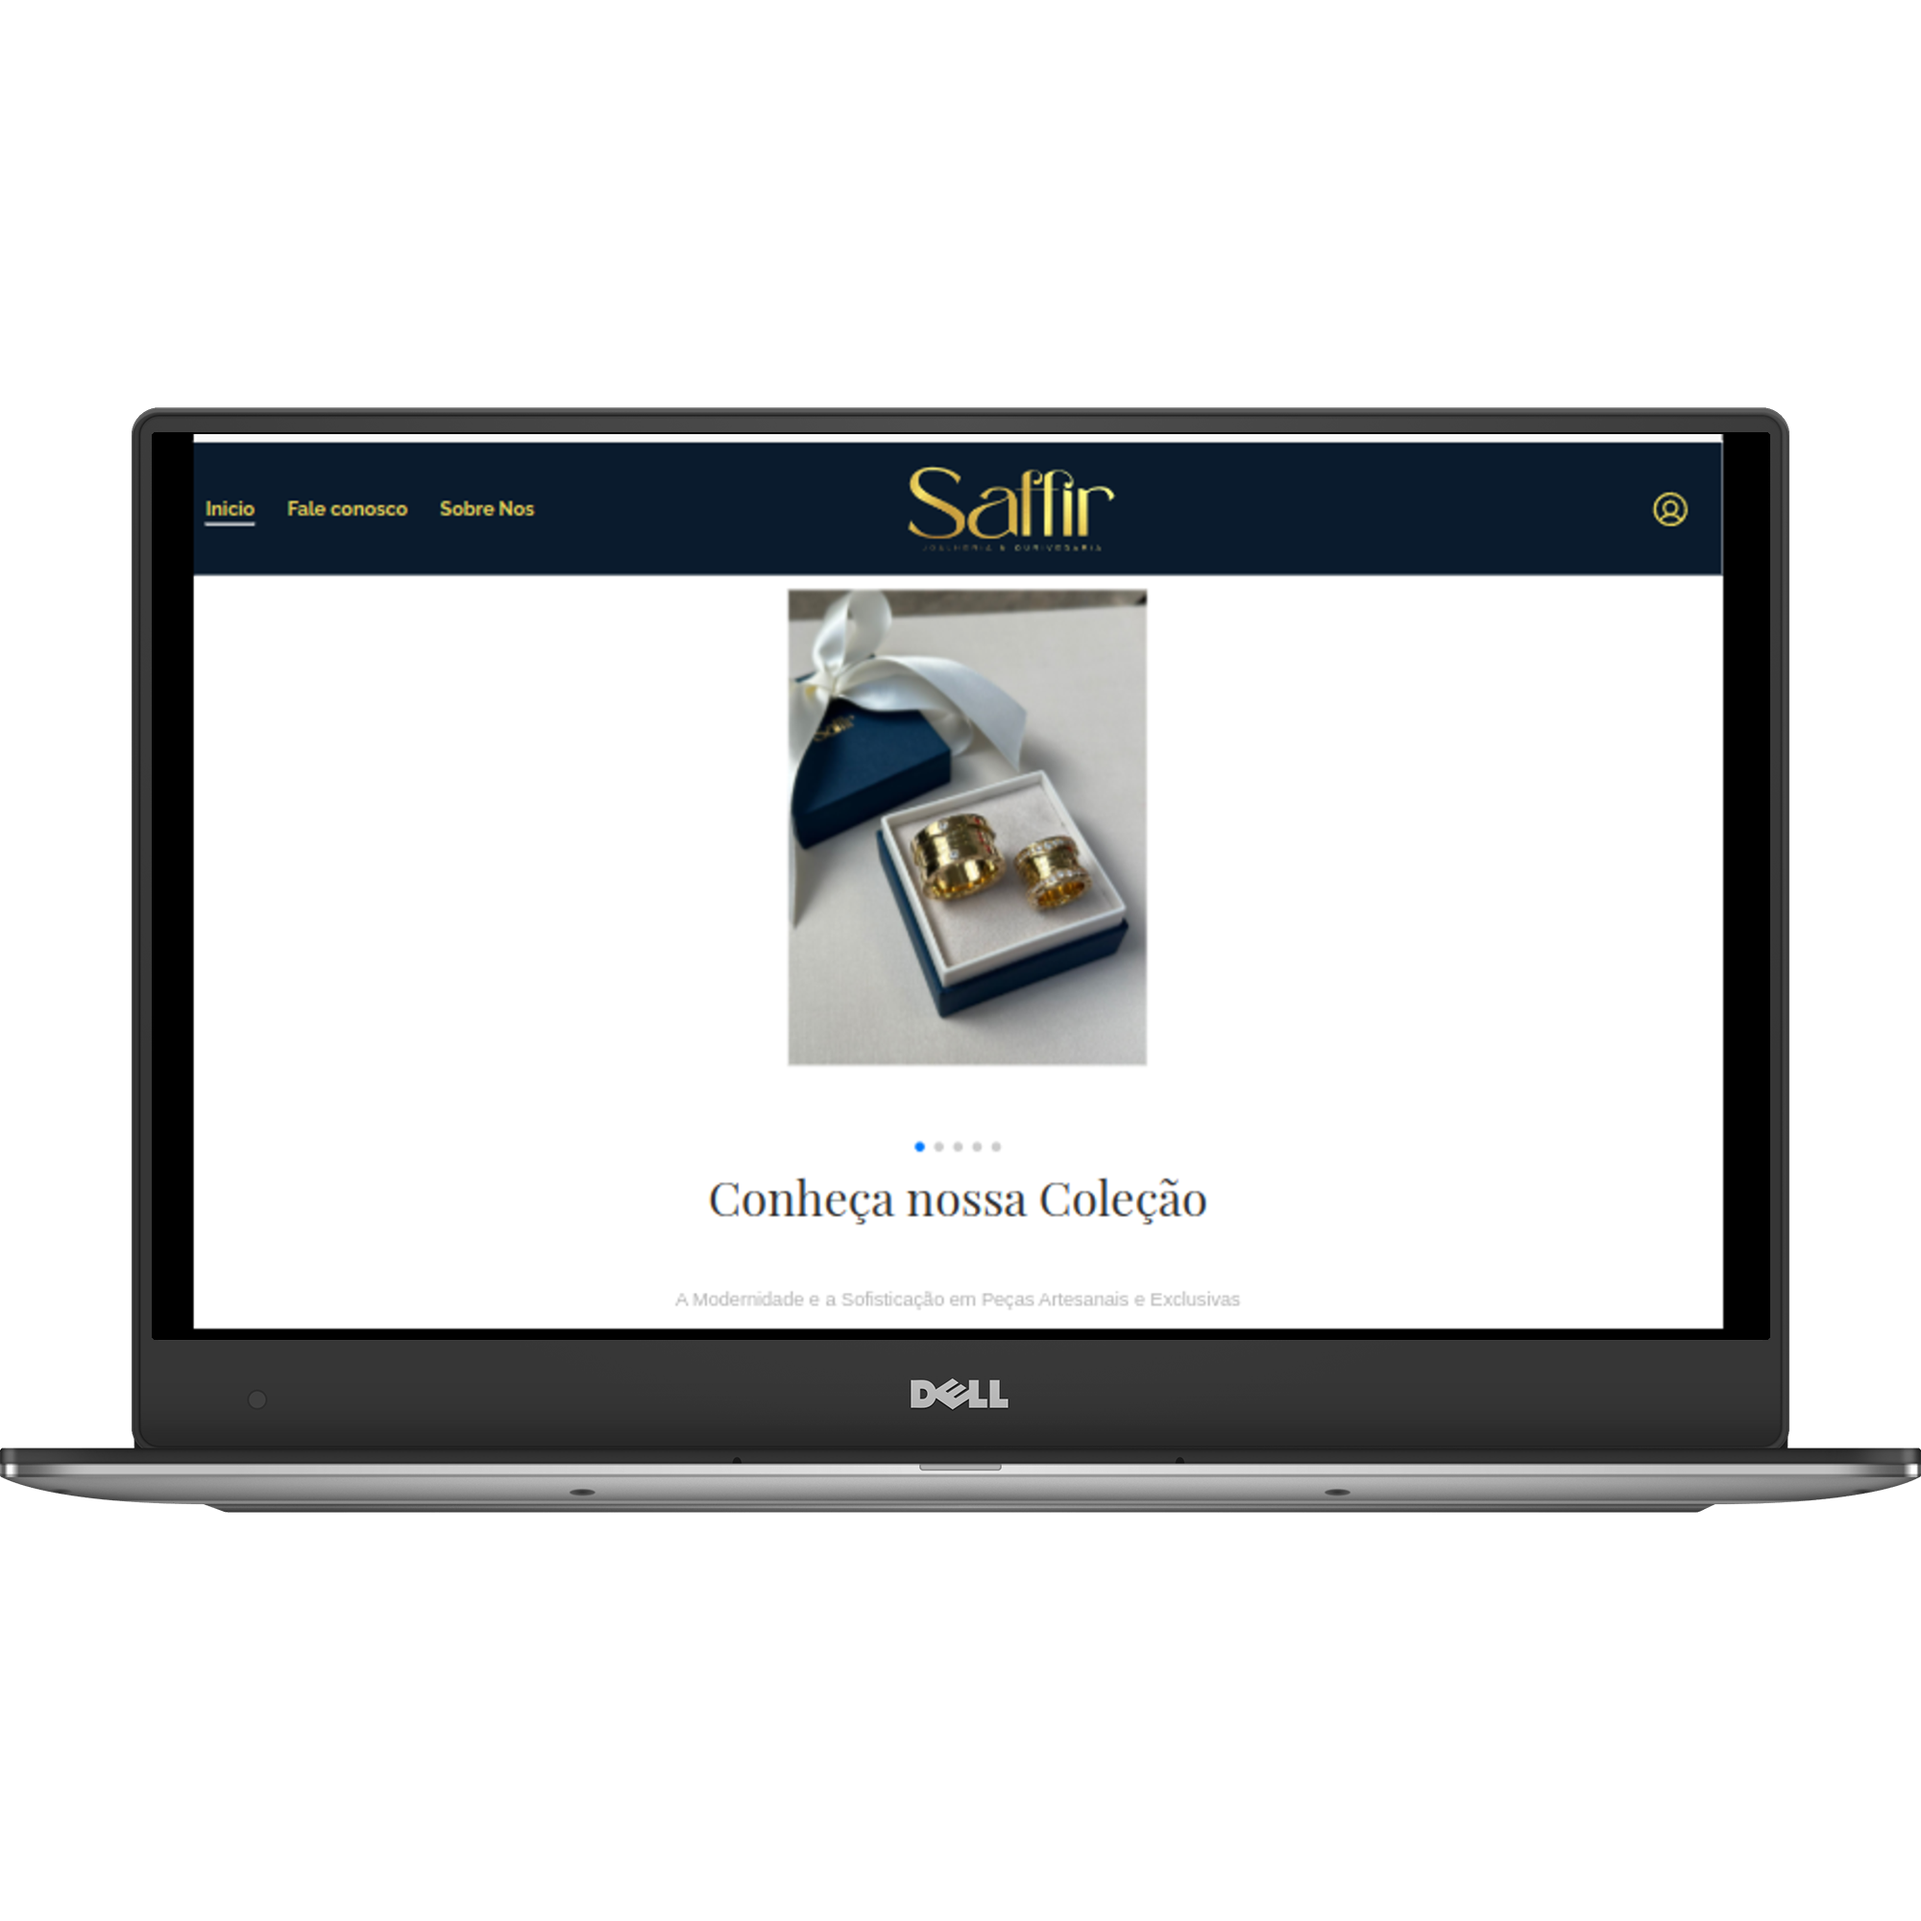
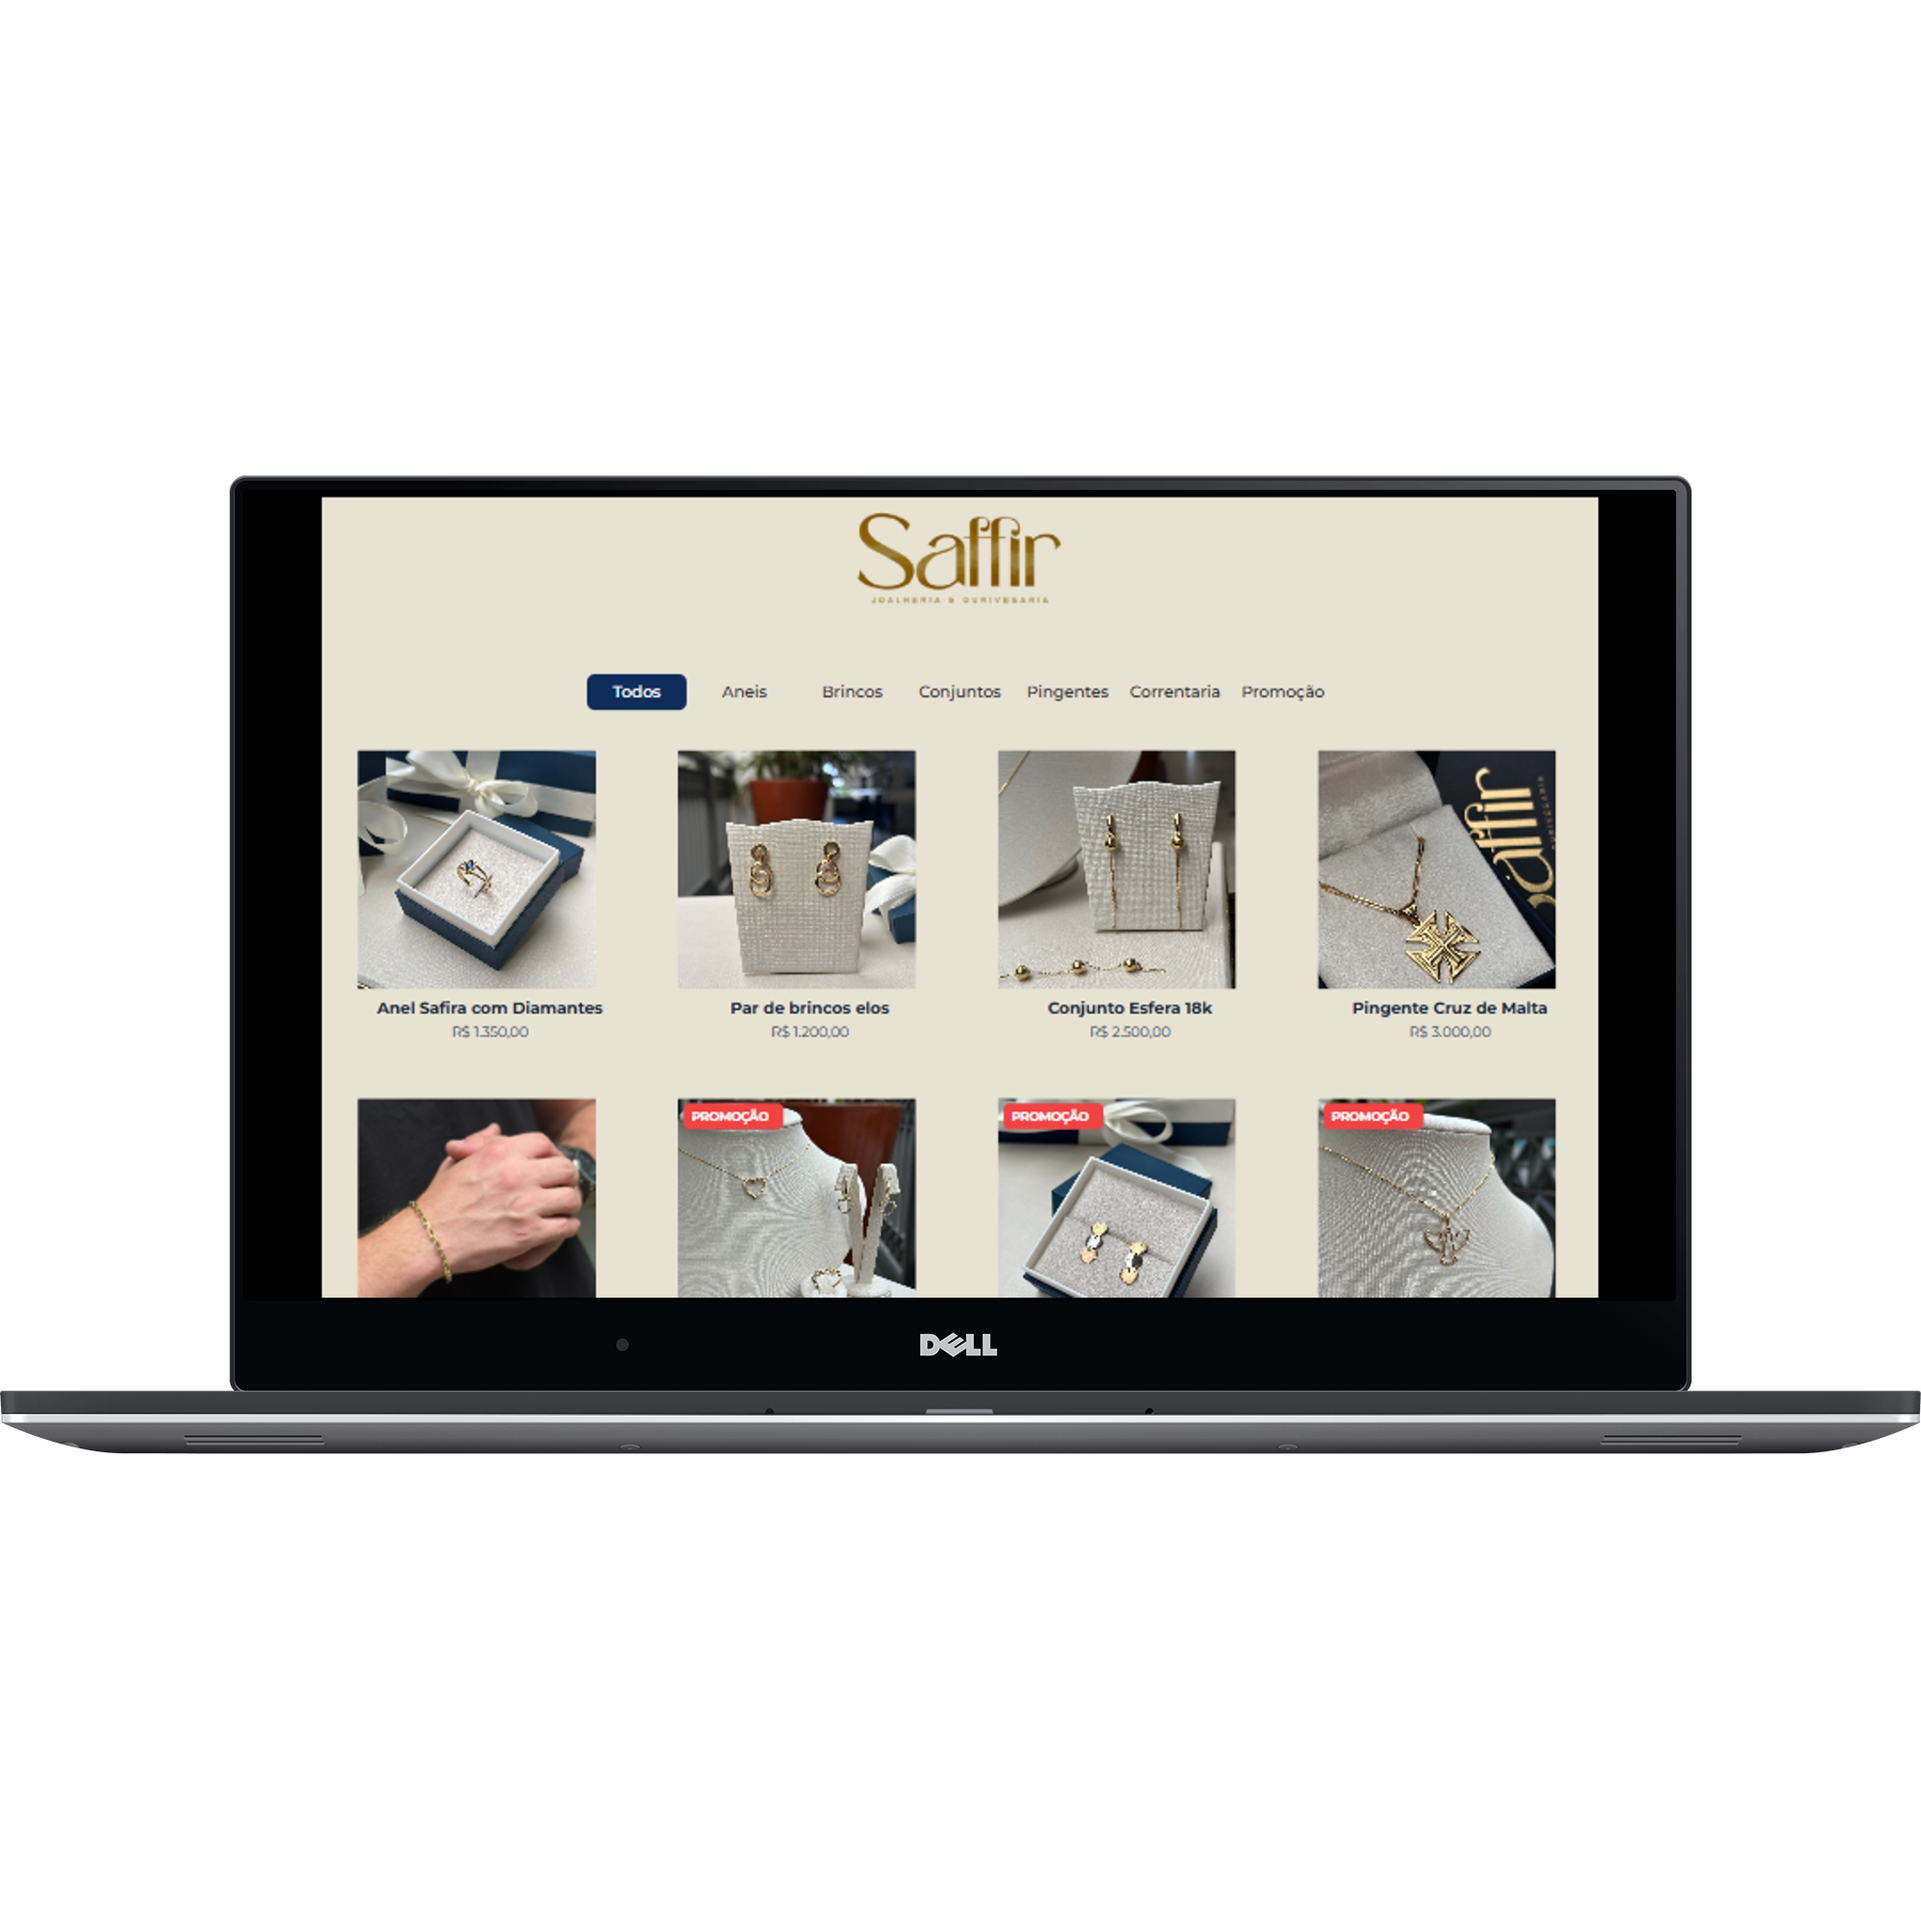
add saffir portfolio

diff --git a/src/assets/projects.ts b/src/assets/projects.ts
@@ -20,6 +20,7 @@ export interface ProjetCardProps {
     image2: string;
     site: string;
     demo: string;
+    platform?:string;
     email: string;
     senha: string;
   }
@@ -56,18 +57,19 @@ export const projects =
             senha: "----",
         },
         {
-            title: "Site Para Mostruário de Joalheria e Ourivesaria",
+            title: "Site Para Portfólio de uma Joalheria",
             description:
-                "Site feito para uma joalheria para fim de mostruário de joias em geral. Feito com React e TypeScript e Firebase para Back-end",
+                "Site feito para uma joalheria para ser um portfólio de joias. Feito com React e TypeScript e Firebase para Back-end",
             year: 2024,
             role: "Desenvolvedor Full-Stack",
             image: saffir,
             image2: saffirMobile,
 
-            site: "saffirjoias",
-            demo: "saffirjoias",
-            email: "saffirjoias@gmail.com",
-            senha: "123456",
+            site: "portfolioSaffir",
+            demo: "portfolio-saffir",
+            platform: "vercel",
+            email: "saffir@joias.com",
+            senha: "190225",
         },
         {
             title: "Site de Entrega de Café: Da Seleção ao Pedido Confirmado",

diff --git a/src/components/main.tsx b/src/components/main.tsx
@@ -53,7 +53,7 @@ export function Main() {
           </Avatar>
         </motion.div>
         <motion.div
-          className="md:mr-[44rem]   "
+          className="flex flex-col items-center w-full mr-[46rem]" //
           initial={{ opacity: 0, scale: 0.5, y: 20 }}
           animate={{ opacity: 1, scale: 1, y: 0 }}
           transition={{ duration: 0.9 }}
@@ -63,7 +63,8 @@ export function Main() {
           </p>
 
           <Carousel
-            className=" w-60 "
+            className="w-60"
+      
             plugins={[
               Autoplay({
                 delay: 2000,
@@ -102,9 +103,9 @@ export function Main() {
           </Carousel>
         </motion.div>
 
-        <div className="w-screen mt-10   flex flex-col justify-center   items-center md:mt-16 md:mr-[44rem]">
-          <div />
-          <div className="border-t-4   min-w-full  lg:min-w-[74rem] md:w-full  border-gray-700 "></div>
+        <div className="w-full  border-t-4 border-gray-700   flex flex-col justify-center   items-center md:mt-16 md:mr-[44rem]">
+    
+        <div className=""></div>
           <motion.div
             initial={{ opacity: 0, scale: 0.5, y: 20 }}
             whileInView={{ opacity: 1, scale: 1, y: 0 }}

diff --git a/src/components/projectCard.tsx b/src/components/projectCard.tsx
@@ -22,6 +22,7 @@ export function ProjectCard({
   image,
   image2,
   site,
+  platform,
   demo,
   email,
   senha,
@@ -70,7 +71,9 @@ export function ProjectCard({
         </div>
 
         <div className="w-full mt-4">
-          <p className="text-xl sm:text-lg text-white mb-4">Informações do projeto</p>
+          <p className="text-xl sm:text-lg text-white mb-4">
+            Informações do projeto
+          </p>
 
           <Table className="w-full">
             <TableHeader>
@@ -107,7 +110,9 @@ export function ProjectCard({
             </Button>
           </a>
           <a
-            href={`https://${demo}.netlify.app`}
+            href={`https://${demo}.${
+              platform === "vercel" ? "vercel.app" : "netlify.app"
+            }`}
             target="_blank"
             className="w-full sm:w-auto"
           >
